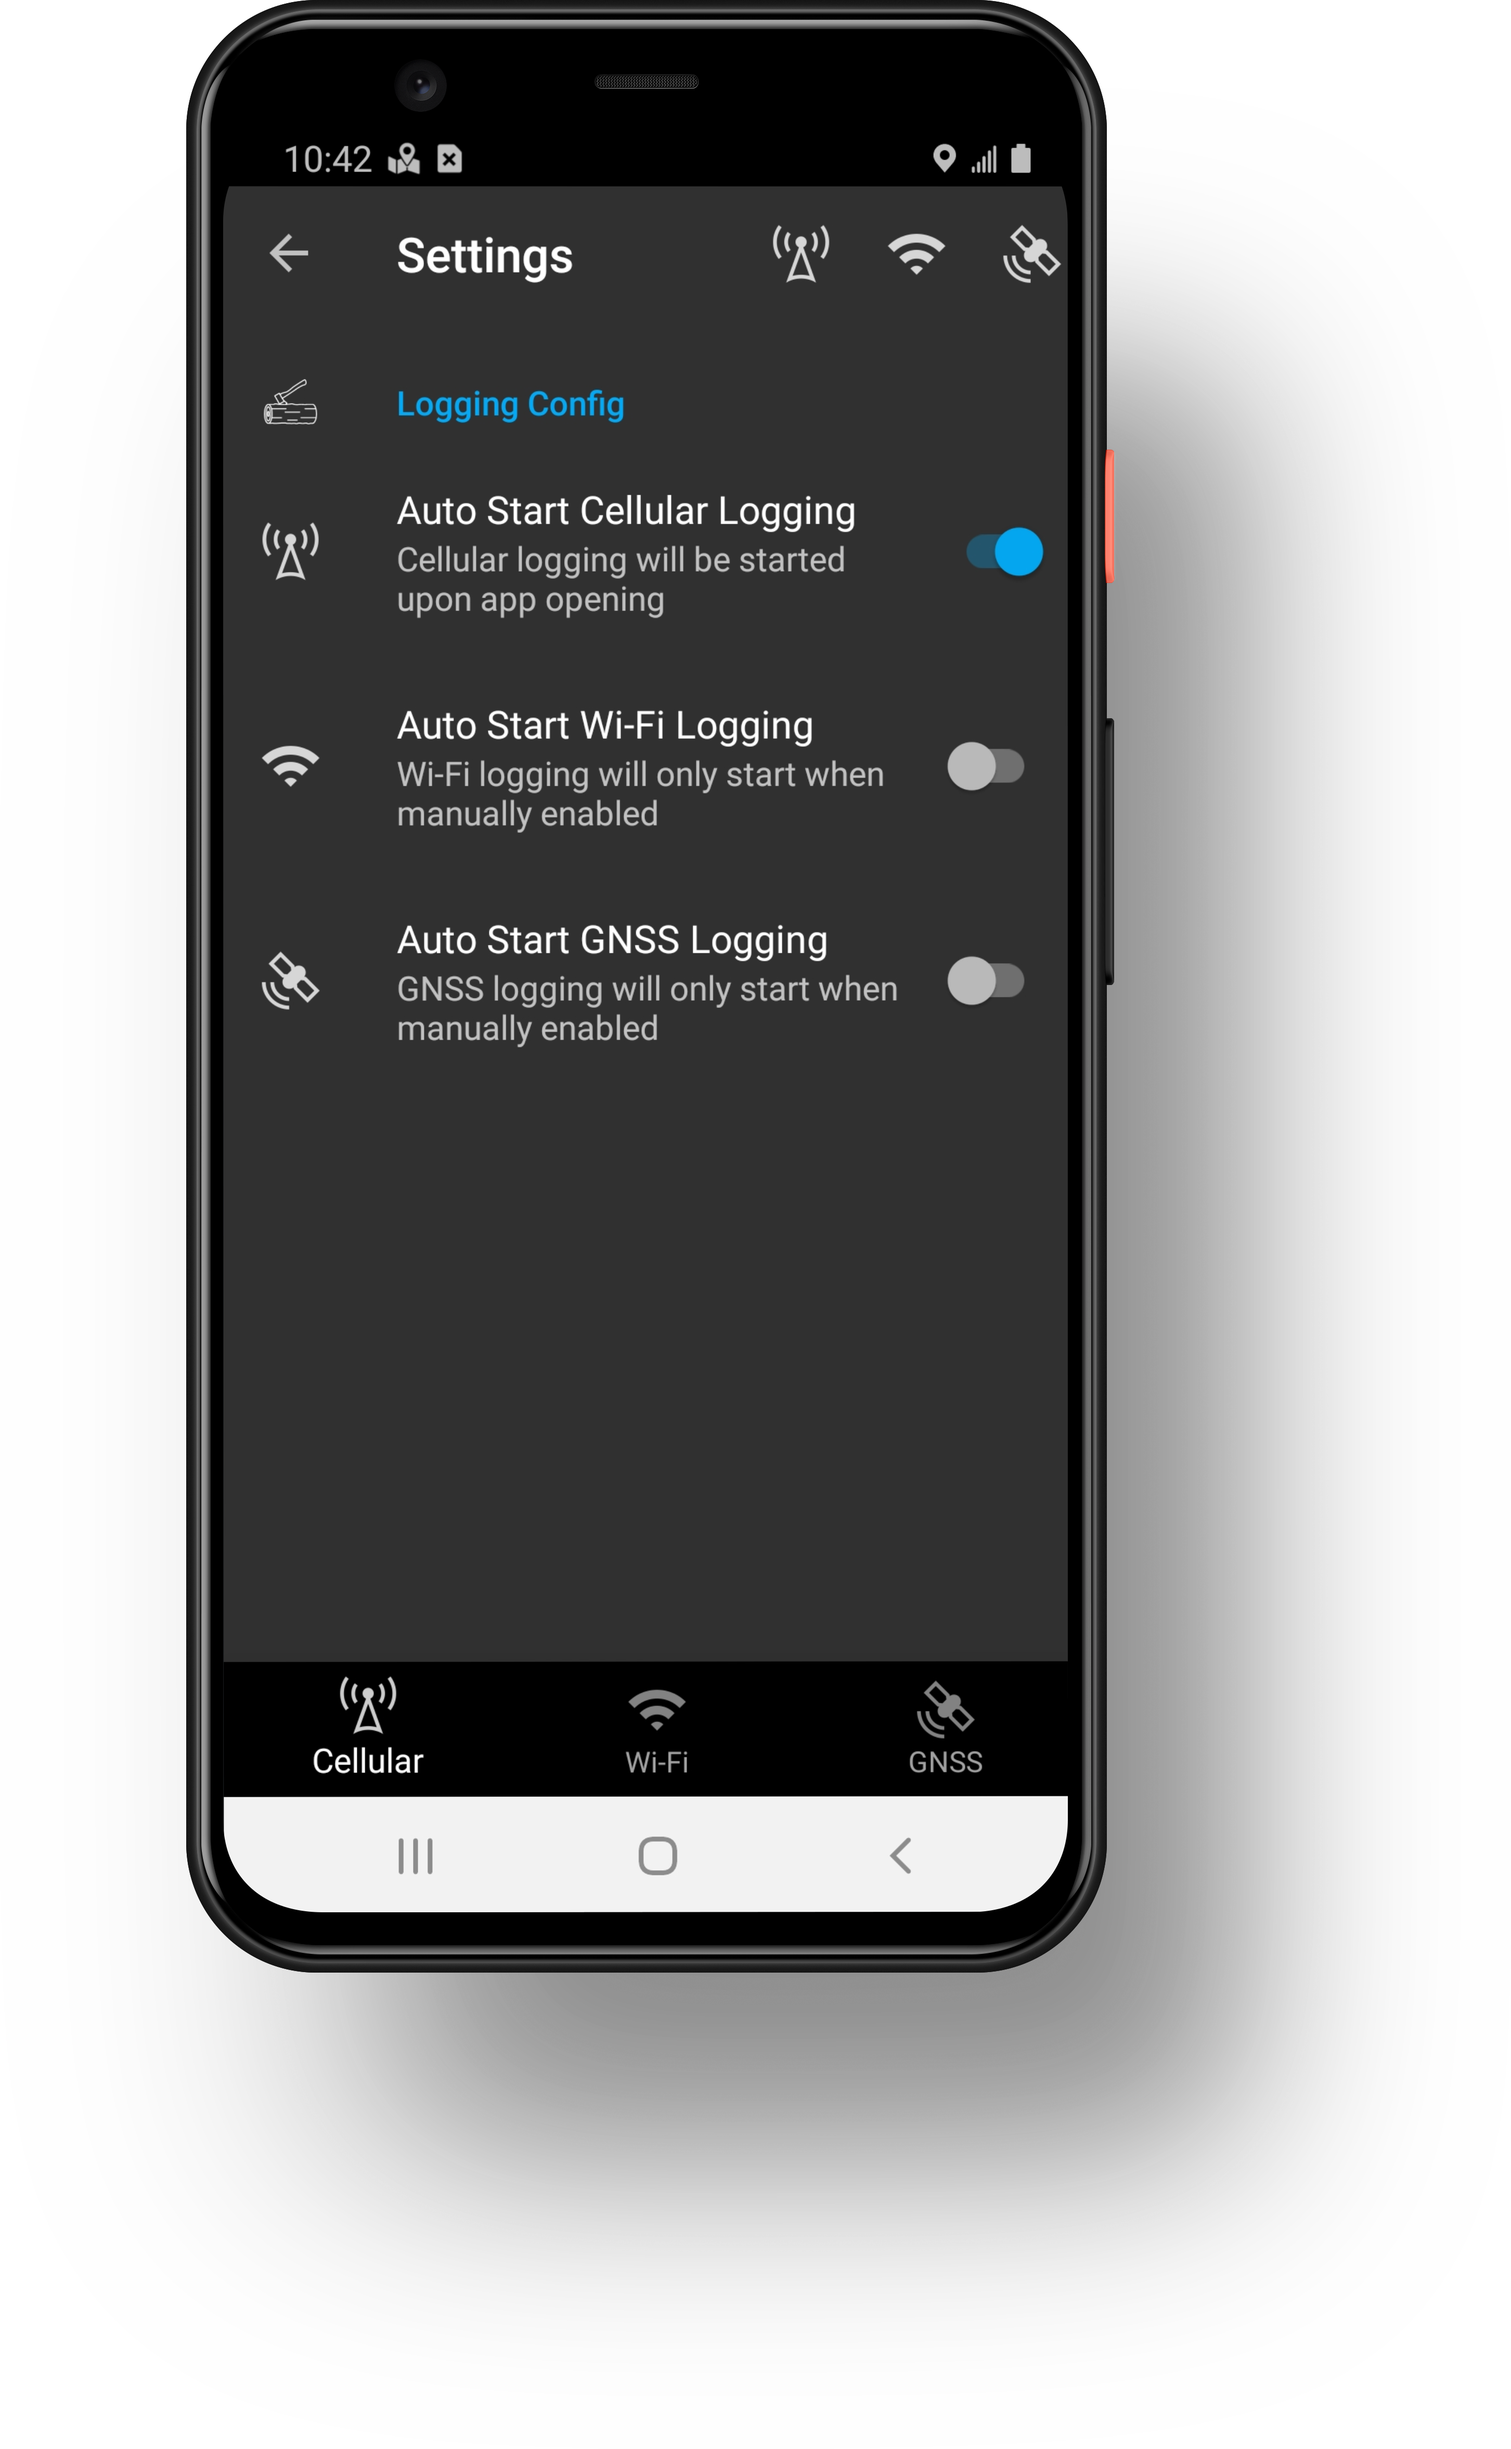
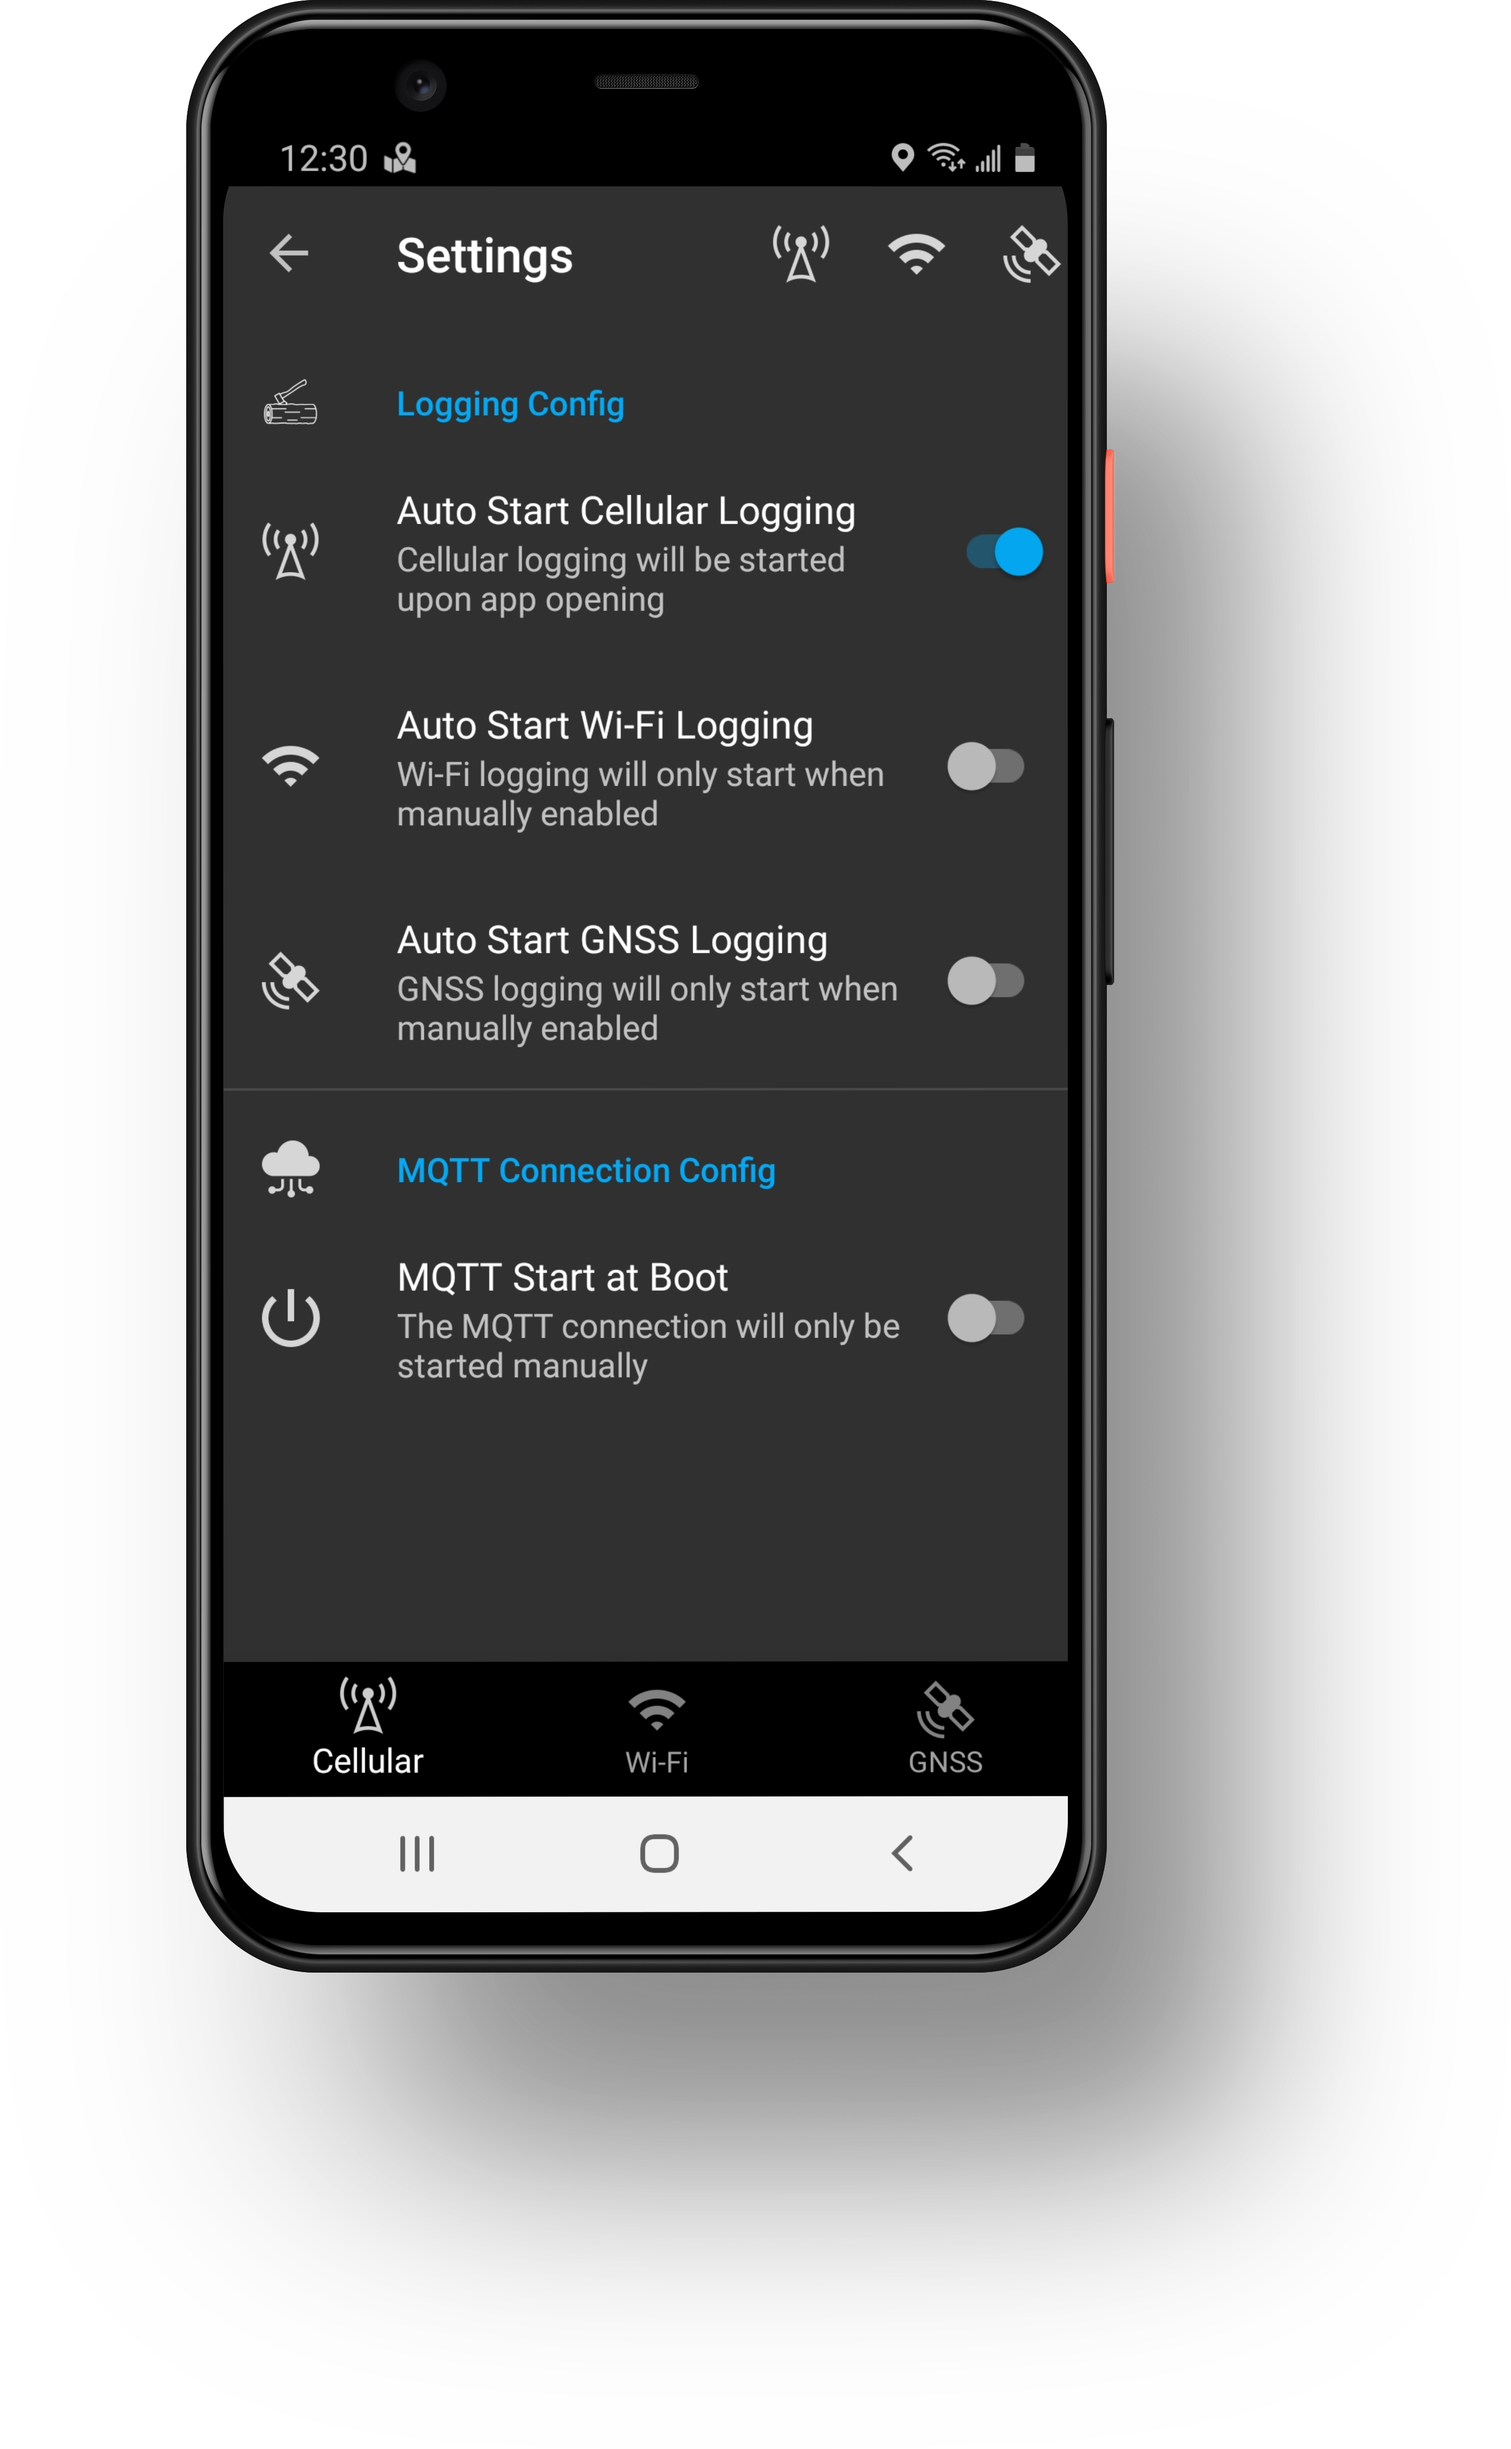
Updated the user manual for the mqtt auto connection settings
- Fixed some links in the README
- Fixed some missing periods in the user manual

diff --git a/docs/index.html b/docs/index.html
@@ -475,12 +475,12 @@ body.book #toc,body.book #preamble,body.book h1.sect0,body.book .sect1>h2{page-b
 </colgroup>
 <tbody>
 <tr>
-<td class="tableblock halign-left valign-top"><p class="tableblock">Tap the <strong>Cellular</strong>, <strong>Wi-Fi</strong>, or <strong>GNSS</strong> logging icons to start/stop logging</p>
+<td class="tableblock halign-left valign-top"><p class="tableblock">Tap the <strong>Cellular</strong>, <strong>Wi-Fi</strong>, or <strong>GNSS</strong> logging icons to start/stop logging.</p>
 <p class="tableblock"><span class="image"><img src="images/log_cellular_icon.png" alt="50" width="50"></span>
 <span class="image"><img src="images/log_wifi_icon.png" alt="50" width="50"></span>
 <span class="image"><img src="images/log_gnss_icon.png" alt="50" width="50"></span></p>
 <p class="tableblock">The logging icon will turn green when logging is enabled, and a 'log' notification appears in the Android notification area.</p>
-<p class="tableblock">Tap on the corresponding icon to switch survey screens <strong>(Cellular/Wi-Fi/GNSS)</strong></p>
+<p class="tableblock">Tap on the corresponding icon to switch survey screens <strong>(Cellular/Wi-Fi/GNSS)</strong>.</p>
 <p class="tableblock"><span class="image"><img src="images/cellular_icon.png" alt="50" width="50"></span>
 <span class="image"><img src="images/wifi_icon.png" alt="50" width="50"></span>
 <span class="image"><img src="images/gnss_icon.png" alt="50" width="50"></span></p></td>
@@ -668,7 +668,8 @@ The MQTT Broker Connection can be used to stream Cellular and Wi-Fi survey recor
 <tr>
 <td class="tableblock halign-left valign-top"><p class="tableblock"><strong>Settings:</strong>
 The Settings can be used to control various behavior of the Network Survey app.</p>
-<p class="tableblock"><span class="underline">Logging Config</span>: When enabled, logging will be auto-started when the app is opened from a fresh start (aka after killing the app).</p></td>
+<p class="tableblock"><span class="underline">Logging Config</span>: When enabled, logging will be auto-started when the app is opened from a fresh start (aka after killing the app).</p>
+<p class="tableblock"><span class="underline">MQTT Connection Config</span>: When enabled, the last MQTT connection configuration will be used to automatically start an MQTT connection when the handset is booted.</p></td>
 <td class="tableblock halign-right valign-top"><p class="tableblock"><span class="image"><img src="images/network_survey_settings_mockup.png" alt="Settings" width="325" height="300"></span></p></td>
 </tr>
 </tbody>
@@ -697,7 +698,7 @@ Cellular and Wi-Fi survey files are stored on the device in the <strong>Download
 </div>
 <div id="footer">
 <div id="footer-text">
-Last updated 2020-06-30 14:22:41 -0400
+Last updated 2020-07-10 14:45:21 -0500
 </div>
 </div>
 </body>

diff --git a/README.md b/README.md
@@ -62,24 +62,24 @@ library.
 
 ## Changelog
 
-##### [0.1.5](https://github.com/christianrowlands/android-network-survey/releases/tag/release-0.1.5) - 2020-07-02
+##### [0.1.5](https://github.com/christianrowlands/android-network-survey/releases/tag/v0.1.5) - 2020-07-02
  * Fixed a bug where the MDM override setting was not being saved.
 
-##### [0.1.4](https://github.com/christianrowlands/android-network-survey/releases/tag/release-0.1.4) - 2020-07-02
+##### [0.1.4](https://github.com/christianrowlands/android-network-survey/releases/tag/v0.1.4) - 2020-07-02
  * Changed the TLS Enabled MDM setting from a string to a boolean.
 
-##### [0.1.3](https://github.com/christianrowlands/android-network-survey/releases/tag/release-0.1.3) - 2020-06-30
+##### [0.1.3](https://github.com/christianrowlands/android-network-survey/releases/tag/v0.1.3) - 2020-06-30
  * Added the user entered device name to the outgoing MQTT messages.
  * When the MQTT connection is configured via MDM, the configuration is now displayed in the MQTT connection UI.
  * Added a user preference to auto start the MQTT connection when the phone is booted.
 
-##### [0.1.2](https://github.com/christianrowlands/android-network-survey/releases/tag/release-0.1.2) - 2020-06-03
+##### [0.1.2](https://github.com/christianrowlands/android-network-survey/releases/tag/v0.1.2) - 2020-06-03
  * Wi-Fi beacon survey records can now be logged to a GeoPackage file, and sent over the connections.
  * Added support for displaying the list of visible Wi-Fi networks.
  * Improved the stability of the MQTT connection.
  * The app's version number is now displayed in the navigation drawer.
 
-##### [0.1.1](https://github.com/christianrowlands/android-network-survey/releases/tag/release-0.1.1) - 2020-05-08
+##### [0.1.1](https://github.com/christianrowlands/android-network-survey/releases/tag/v0.1.1) - 2020-05-08
  * Added support for connecting to an MQTT broker and streaming cellular survey records.
  * Added support for allowing the MQTT broker connection information to be set via MDM.
  * Fixed a bug that caused the calculator text field to be covered on screens with low resolution and large font.
